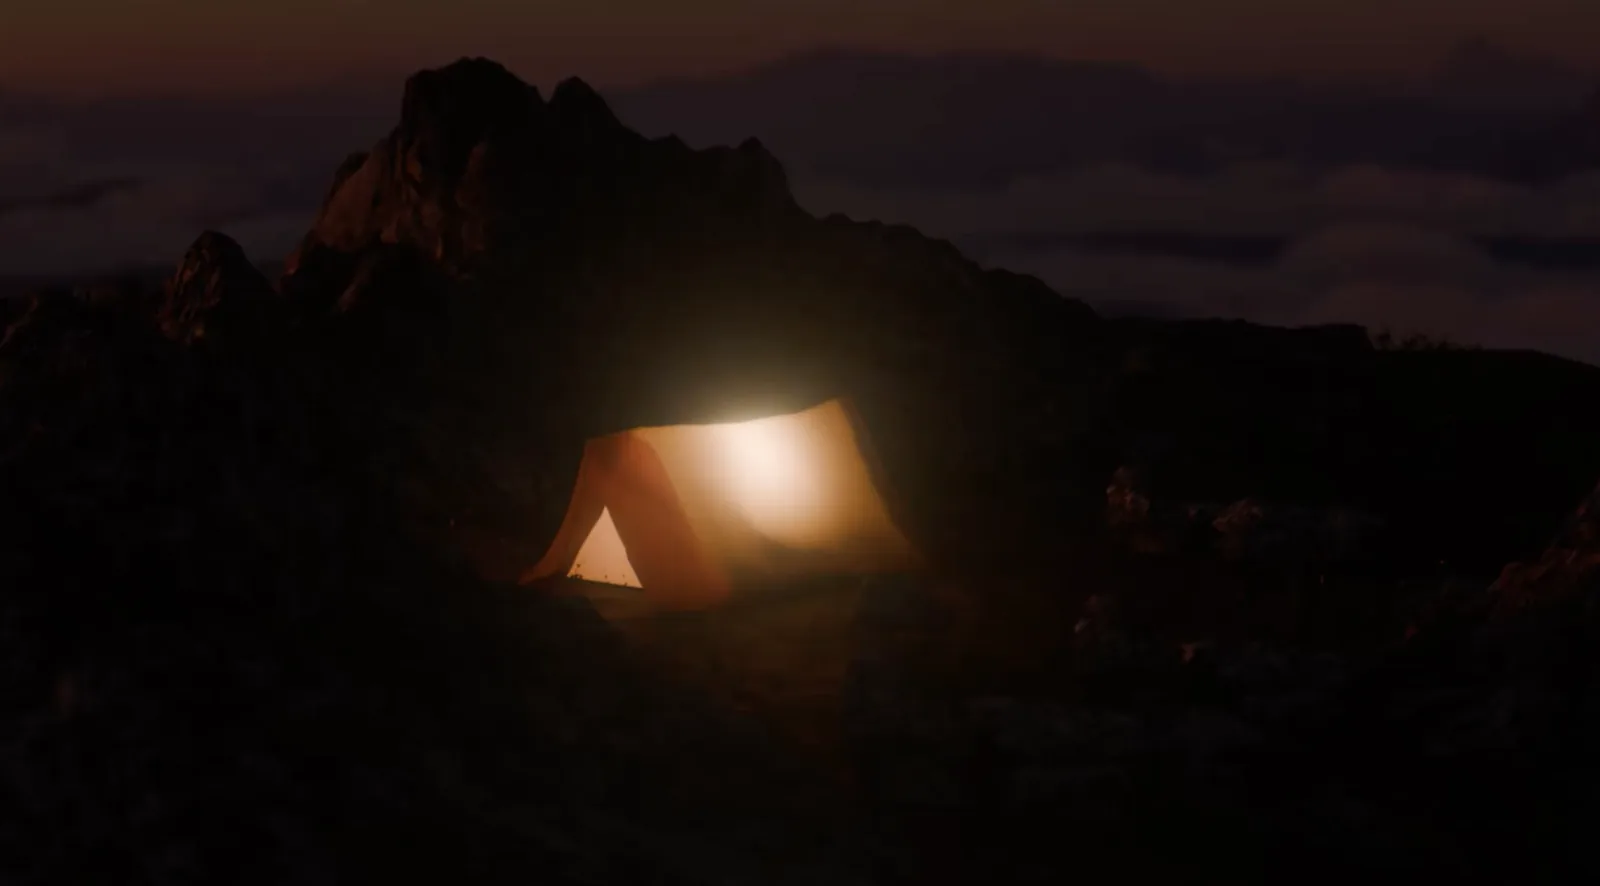
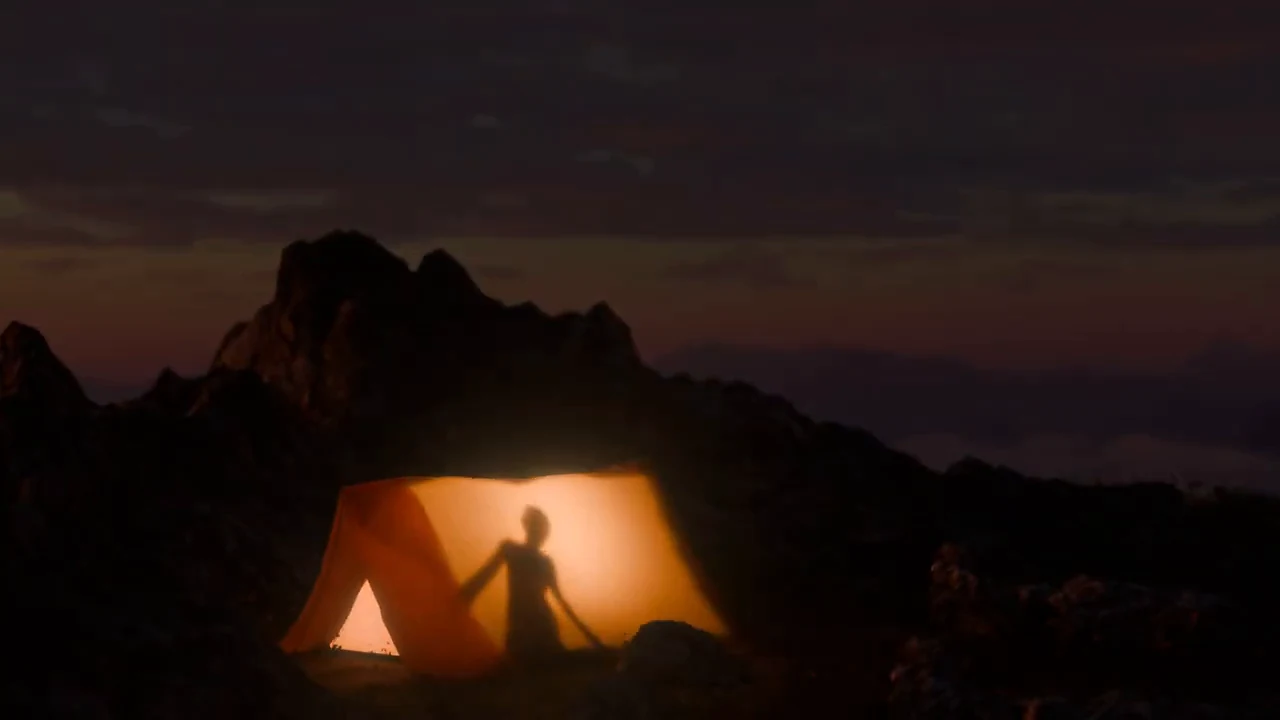
Patschifig: neues Still aus dem Video, Hochwasser: Rolle
Claude-Session: https://claude.ai/code/session_015ZTdth6W76as7pLafizDmw

diff --git a/script.js b/script.js
@@ -29,7 +29,7 @@
       desc: "" },
     { title: "BERN131", type: "Imagefilm", role: "Kamera", img: "img/bern131-still.webp", thumb: "img/bern131-thumb.webp", video: "video/bern131.mp4", real: true,
       desc: "Für Losinger Marazzi. Ein Blick in die Vorfertigung für das Bauprojekt BERN131." },
-    { title: "Hochwasser", type: "Forschungsfilm", role: "", img: "img/platzhalter-city-still.webp", thumb: "img/platzhalter-city-thumb.webp", video: "video/hochwasser.mp4", real: true,   // TODO: Thumbnail aus hochwasser.mp4
+    { title: "Hochwasser", type: "Forschungsfilm", role: "Alles selbst", img: "img/platzhalter-city-still.webp", thumb: "img/platzhalter-city-thumb.webp", video: "video/hochwasser.mp4", real: true,   // TODO: Thumbnail aus hochwasser.mp4
       desc: "Video für ein Forschungsprojekt der Universität Bern über Hochwassergefahr." },
     { title: "Patschifig", type: "3D-Intro (fiktiv)", role: "Alles selbst, in Blender", img: "img/patschifig-still.webp", thumb: "img/patschifig-thumb.webp", video: "video/patschifig.mp4", real: true,
       desc: "Fiktives Intro für ein Format bei RTR. Komplett selbst in Blender gebaut, beleuchtet, animiert und gerendert." },
